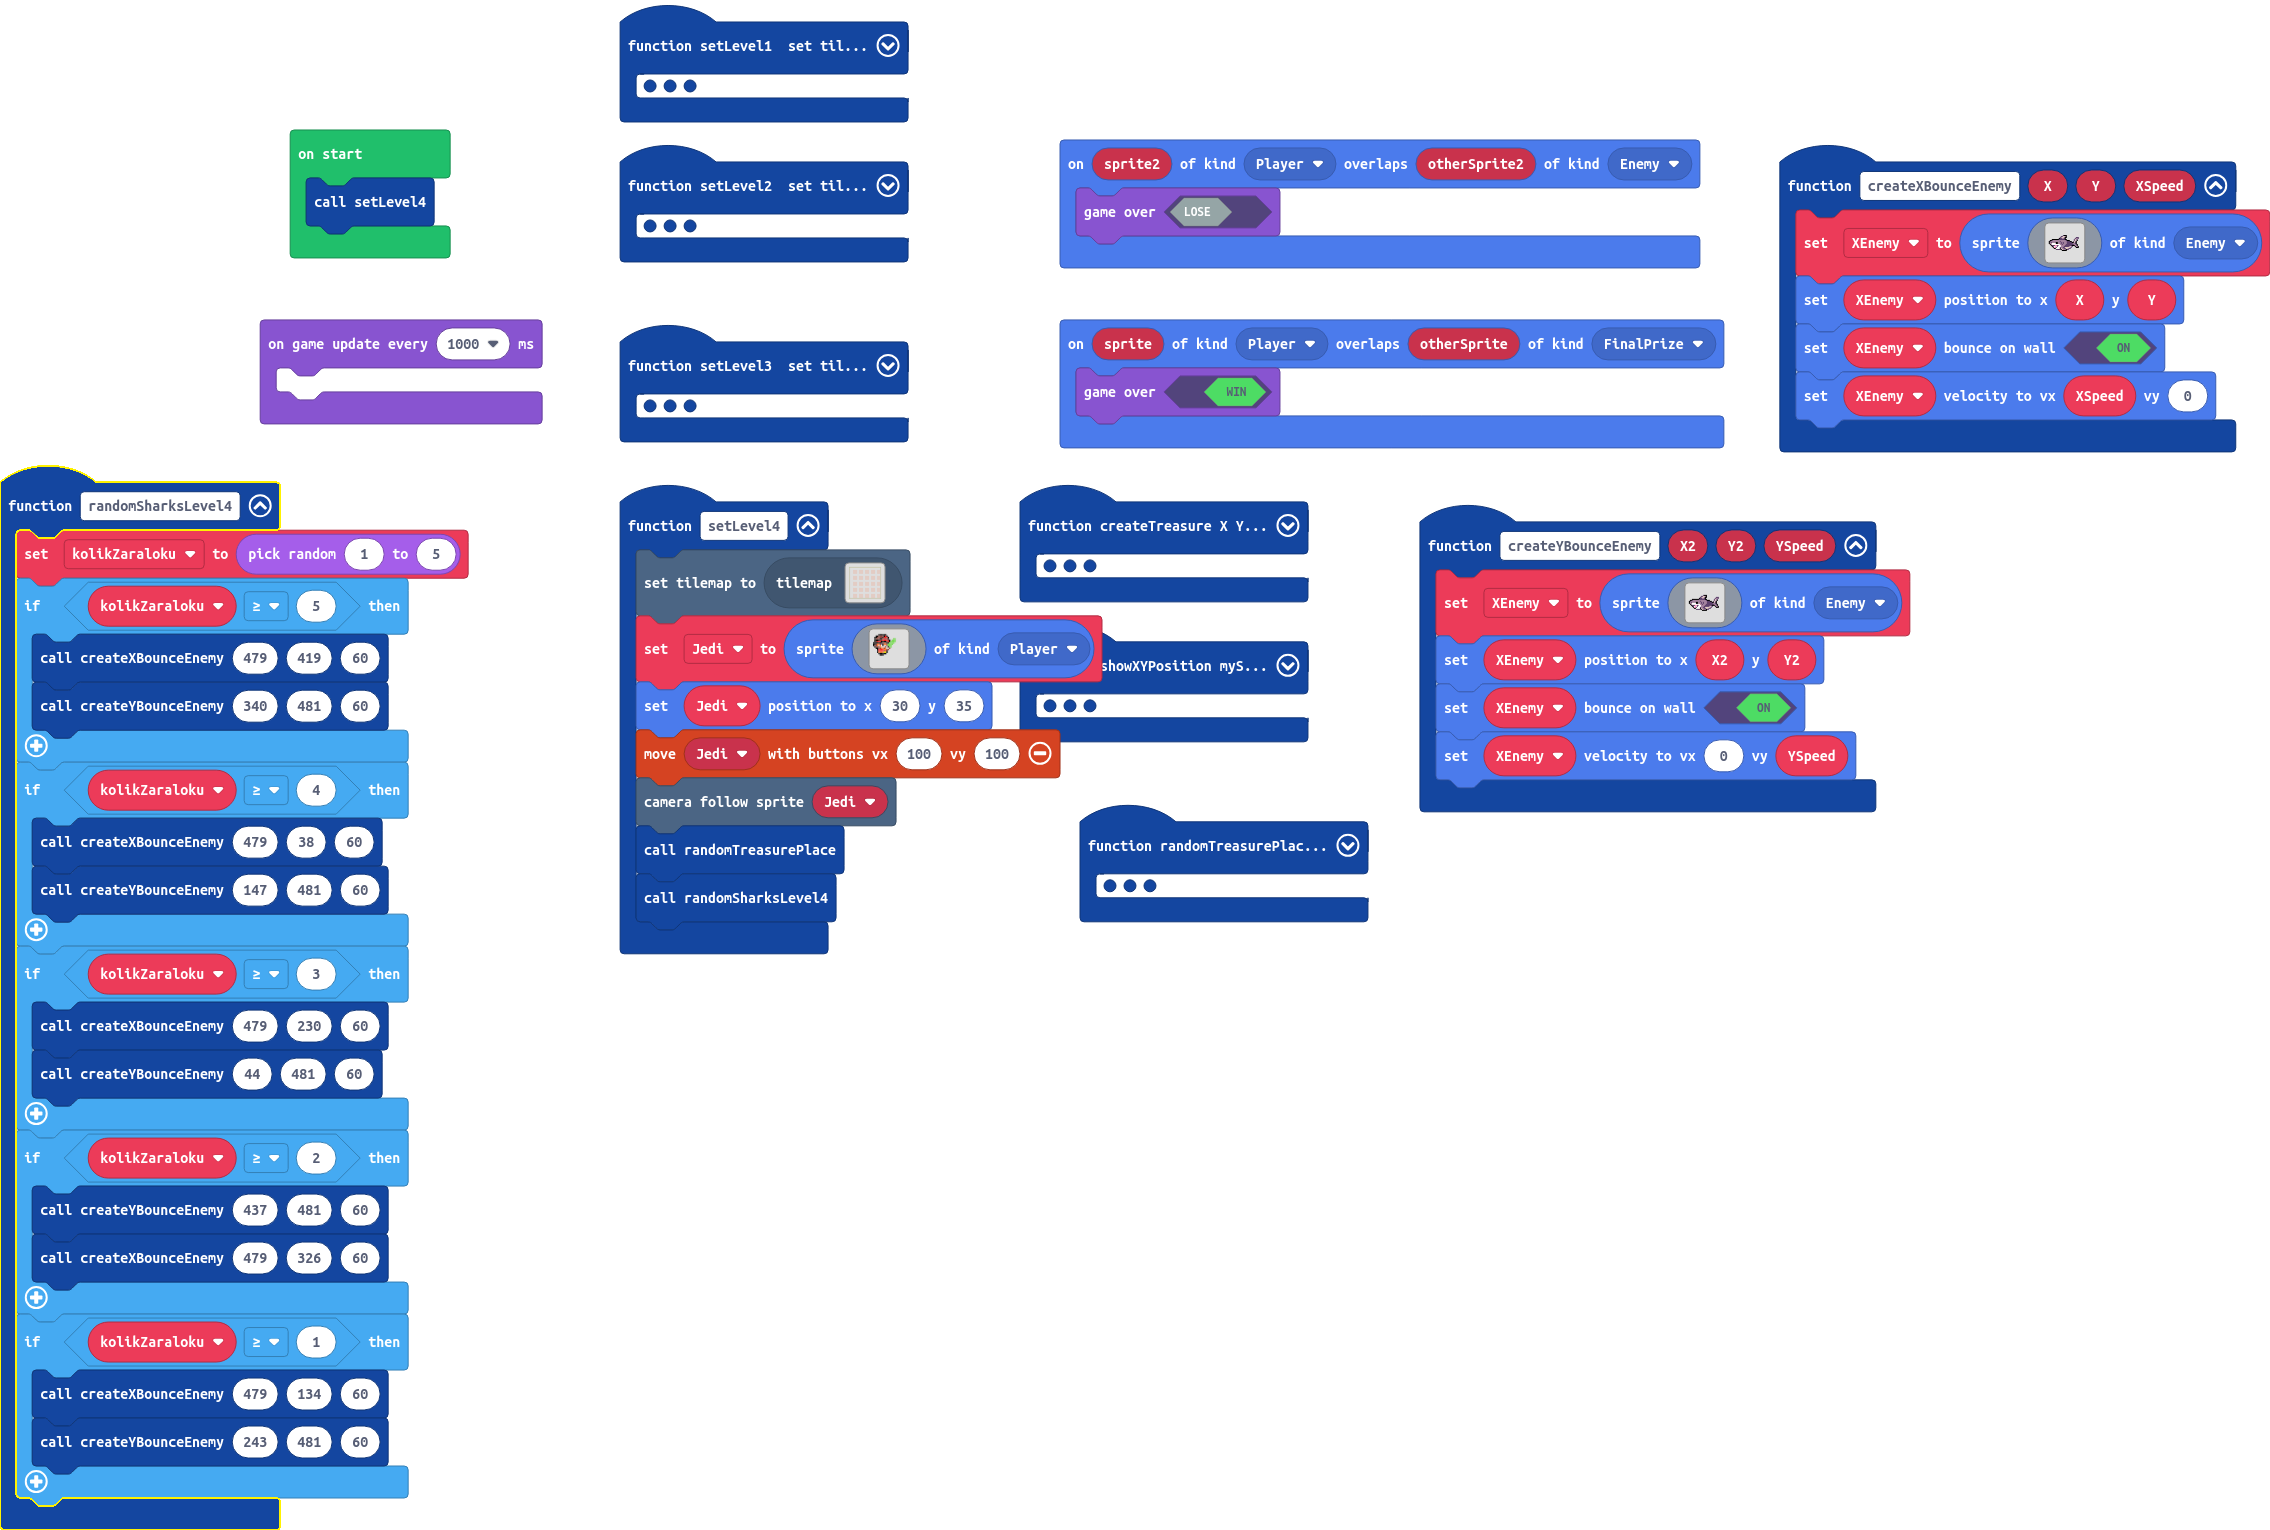
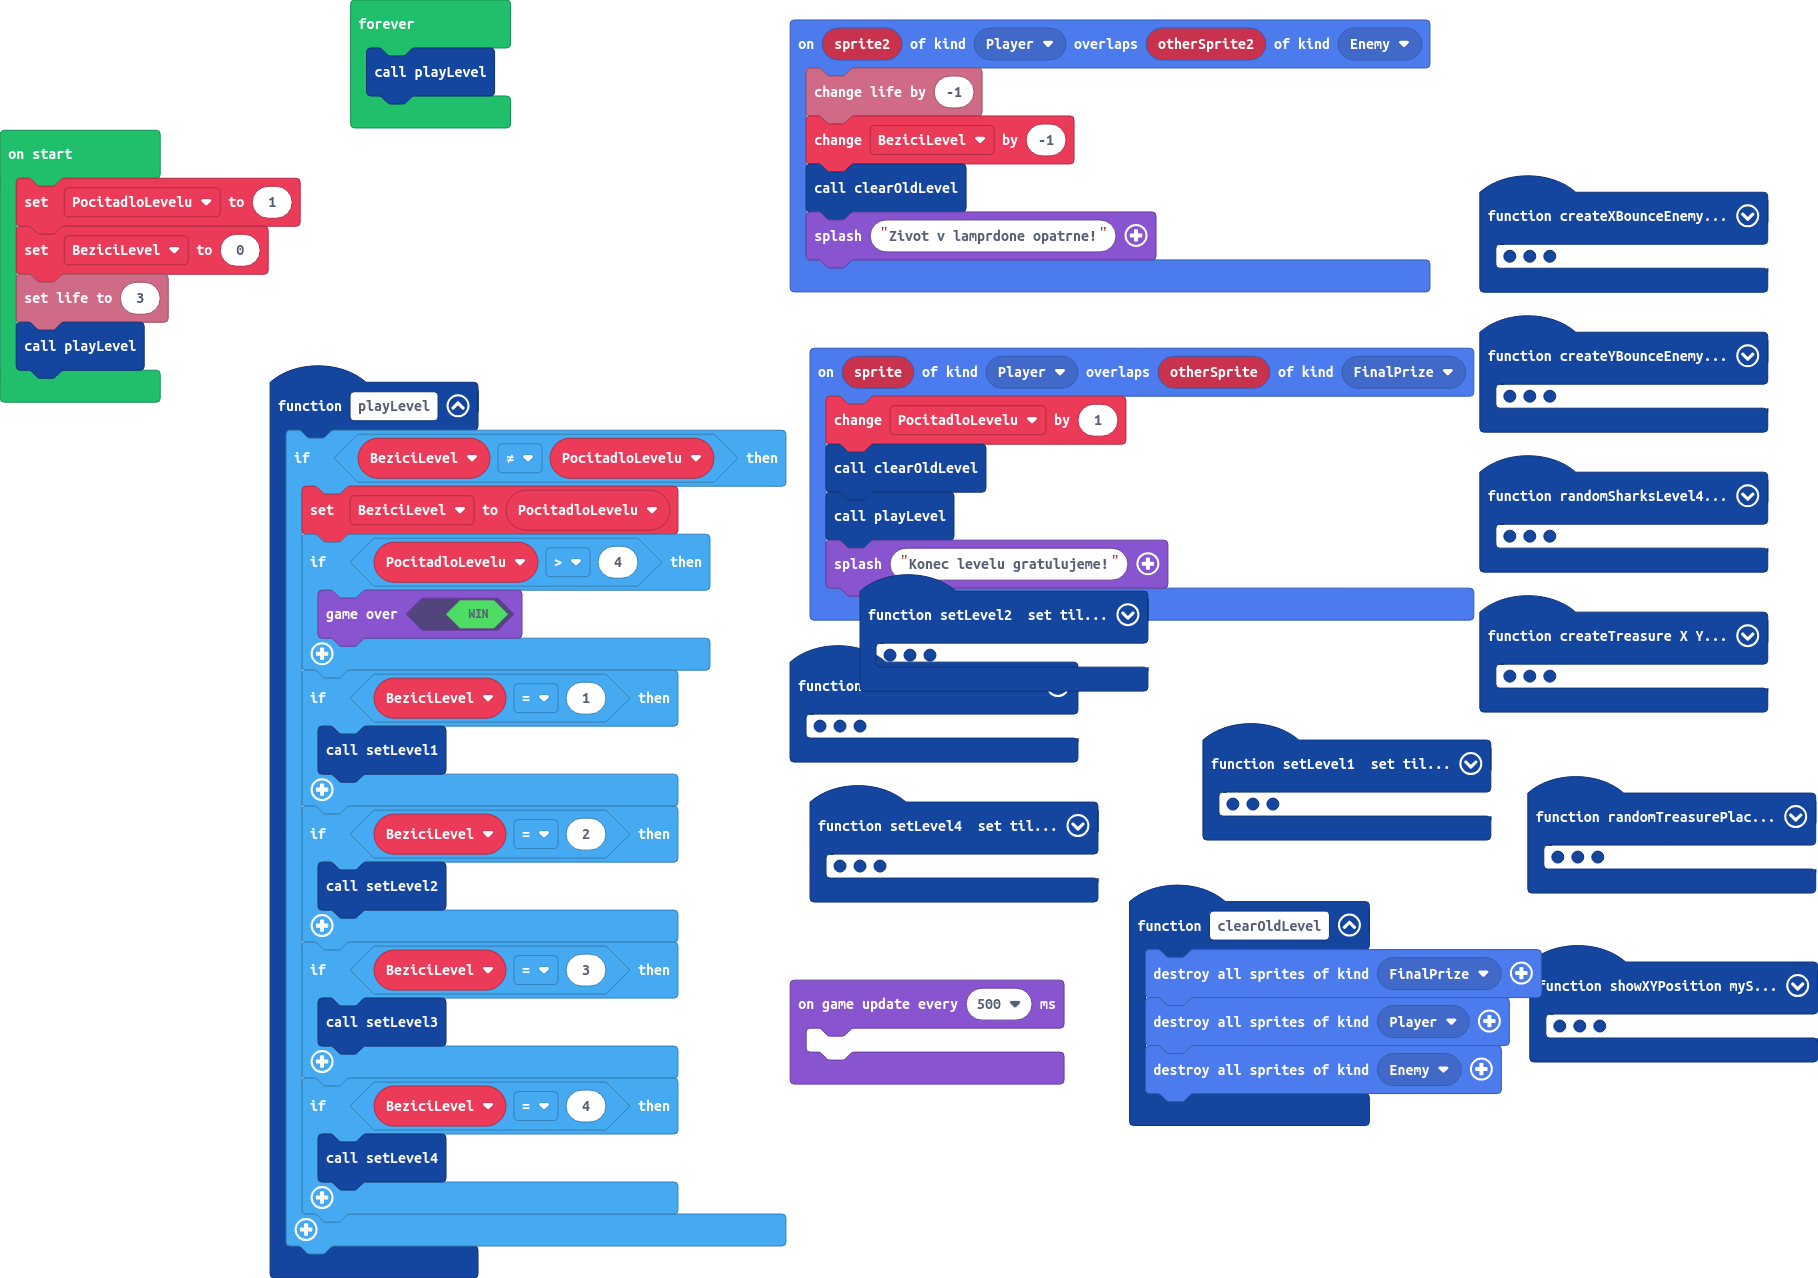
Update main.blocks, main.ts

diff --git a/main.ts b/main.ts
@@ -100,11 +100,19 @@ function createXBounceEnemy (X: number, Y: number, XSpeed: number) {
     XEnemy.setVelocity(XSpeed, 0)
 }
 sprites.onOverlap(SpriteKind.Player, SpriteKind.Enemy, function (sprite2, otherSprite2) {
-    game.gameOver(false)
+    info.changeLifeBy(-1)
+    BeziciLevel += -1
+    clearOldLevel()
+    game.splash("Zivot v lamprdone opatrne!")
 })
 function showXYPosition (mySprite: Sprite) {
     scene.cameraFollowSprite(mySprite)
     console.log("X: " + ("" + mySprite.x) + " Y: " + ("" + mySprite.y))
+}
+function clearOldLevel () {
+    sprites.destroyAllSpritesOfKind(SpriteKind.FinalPrize)
+    sprites.destroyAllSpritesOfKind(SpriteKind.Player)
+    sprites.destroyAllSpritesOfKind(SpriteKind.Enemy)
 }
 function createTreasure (X: number, Y: number) {
     finalReward = sprites.create(img`
@@ -282,6 +290,26 @@ function setLevel3 () {
     scene.cameraFollowSprite(Jedi)
     createTreasure(491, 91)
 }
+function playLevel () {
+    if (BeziciLevel != PocitadloLevelu) {
+        BeziciLevel = PocitadloLevelu
+        if (PocitadloLevelu > 4) {
+            game.gameOver(true)
+        }
+        if (BeziciLevel == 1) {
+            setLevel1()
+        }
+        if (BeziciLevel == 2) {
+            setLevel2()
+        }
+        if (BeziciLevel == 3) {
+            setLevel3()
+        }
+        if (BeziciLevel == 4) {
+            setLevel4()
+        }
+    }
+}
 function createYBounceEnemy (X2: number, Y2: number, YSpeed: number) {
     XEnemy = sprites.create(img`
         ..............cfff..............
@@ -333,7 +361,7 @@ function setLevel2 () {
         ........................
         ........................
         `, SpriteKind.Player)
-    Jedi.setPosition(30, 35)
+    Jedi.setPosition(384, 86)
     controller.moveSprite(Jedi, 100, 100)
     scene.cameraFollowSprite(Jedi)
     createTreasure(193, 421)
@@ -348,7 +376,10 @@ function setLevel2 () {
     createXBounceEnemy(380, 185, 60)
 }
 sprites.onOverlap(SpriteKind.Player, SpriteKind.FinalPrize, function (sprite, otherSprite) {
-    game.gameOver(true)
+    PocitadloLevelu += 1
+    clearOldLevel()
+    playLevel()
+    game.splash("Konec levelu gratulujeme!")
 })
 function setLevel1 () {
     tiles.setCurrentTilemap(tilemap`level 1`)
@@ -395,7 +426,15 @@ let Poklad_Y: number[] = []
 let ktery_poklad = 0
 let kolikZaraloku = 0
 let Jedi: Sprite = null
-setLevel4()
-game.onUpdateInterval(1000, function () {
+let BeziciLevel = 0
+let PocitadloLevelu = 0
+PocitadloLevelu = 1
+BeziciLevel = 0
+info.setLife(3)
+playLevel()
+forever(function () {
+    playLevel()
+})
+game.onUpdateInterval(500, function () {
 	
 })
